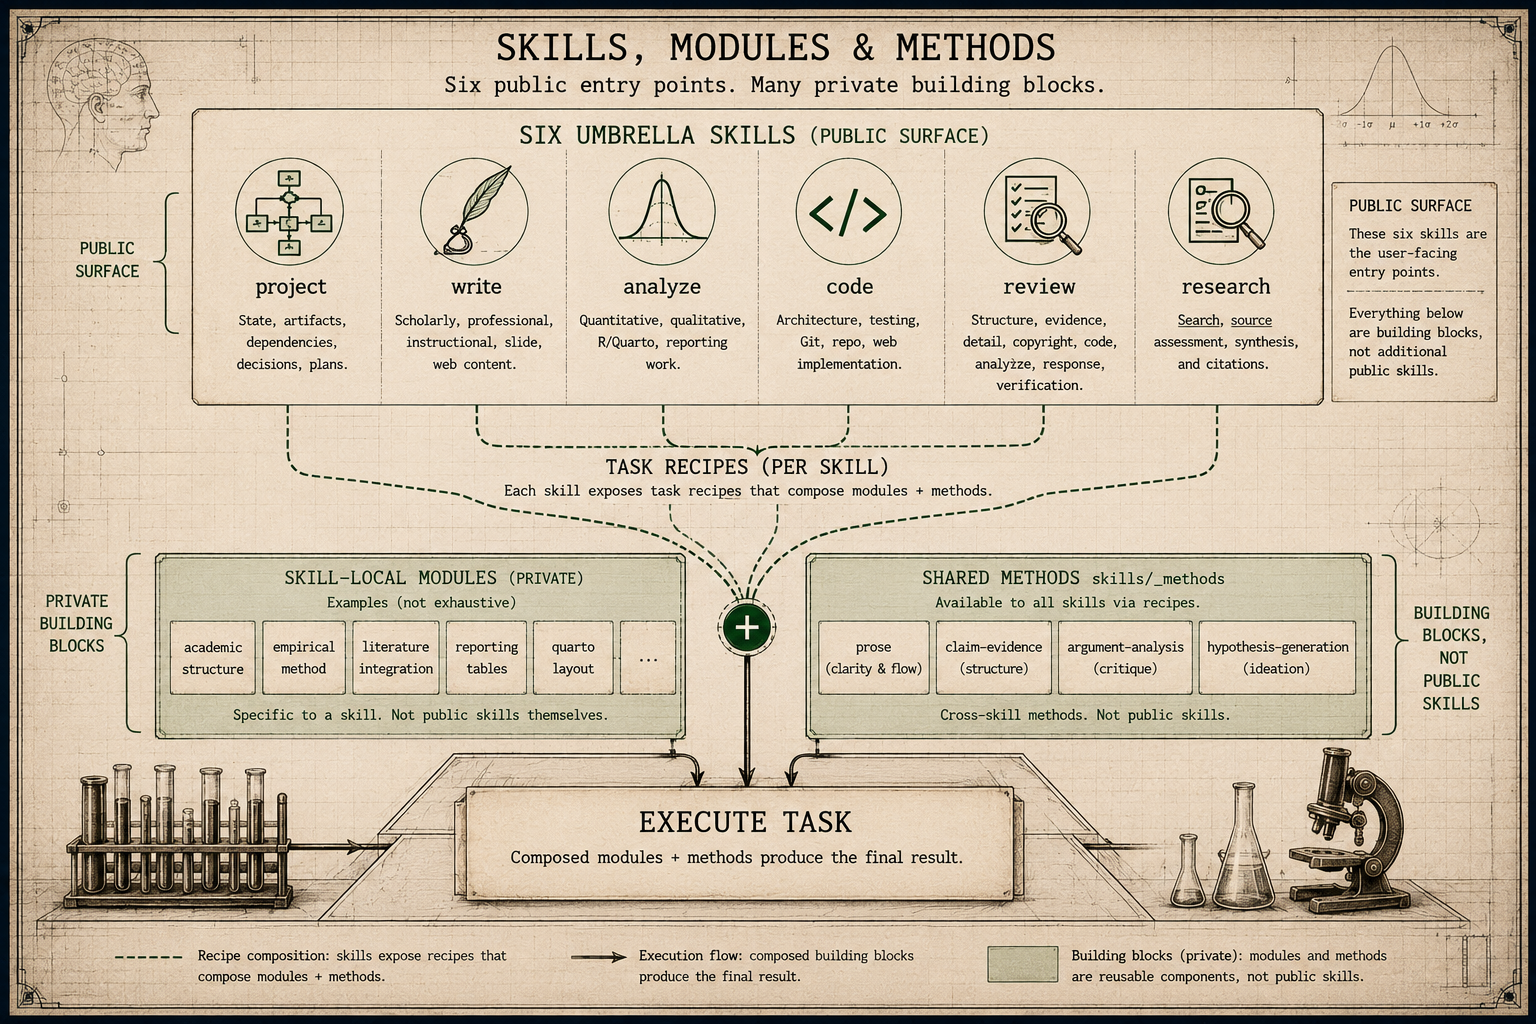
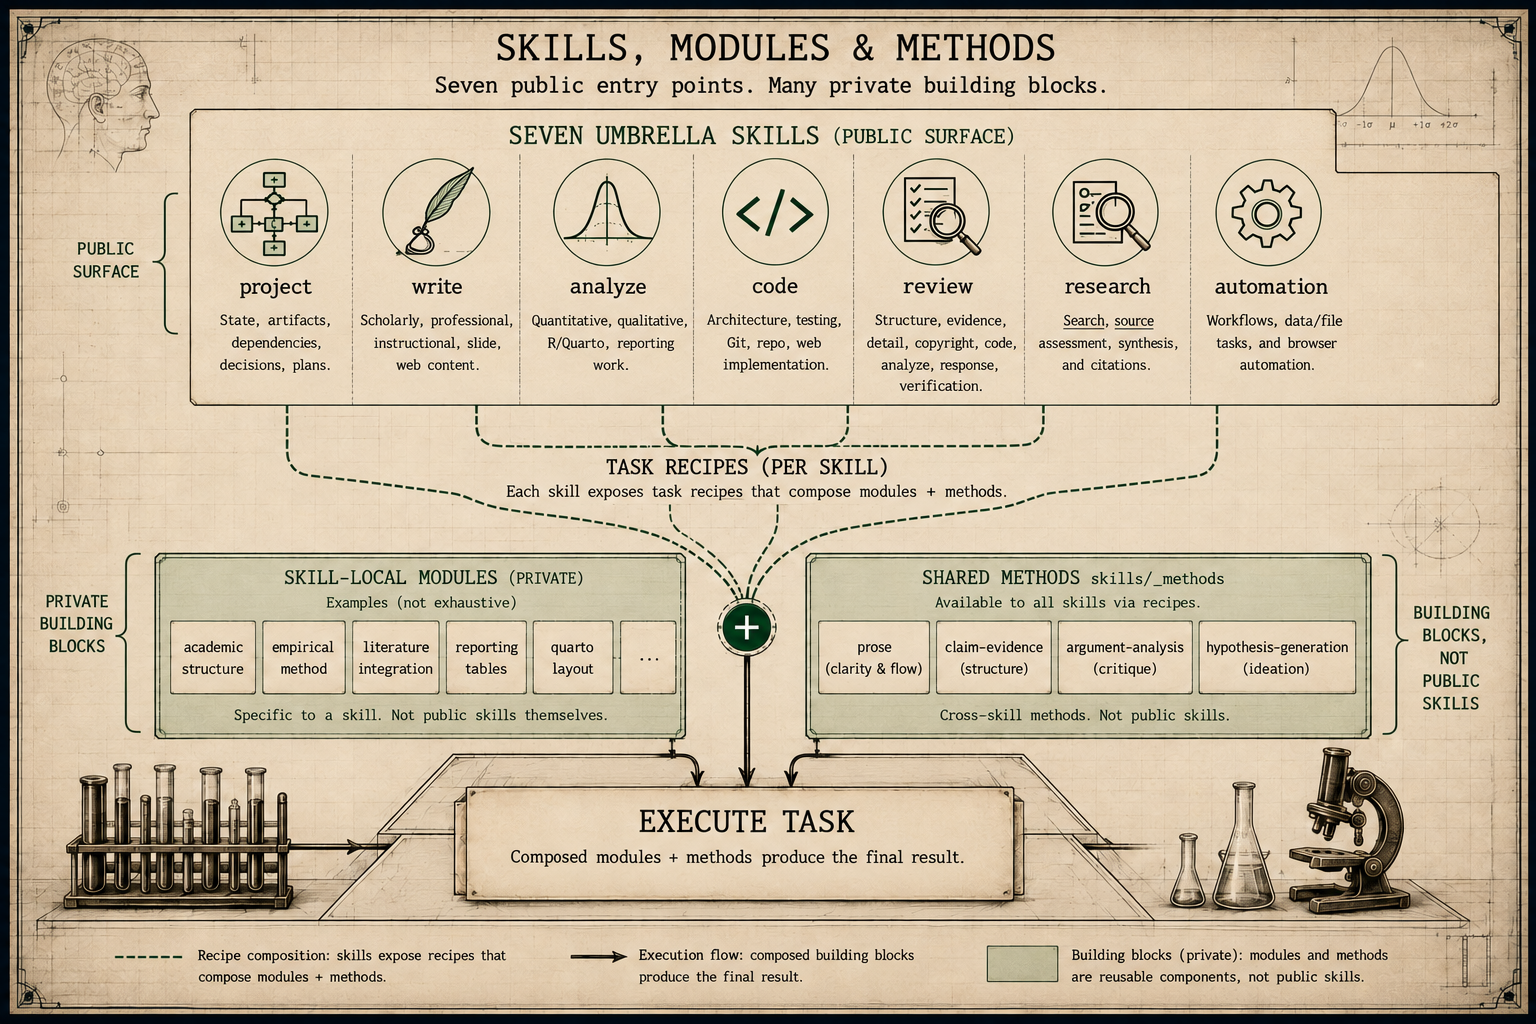
chore: prepare v7.0.0 release

diff --git a/TODO.md b/TODO.md
@@ -70,13 +70,14 @@ file records the implementation sequence and current verification state.
 - [x] Make capability claims ownership-aware and reject empty worker
   assignments at the request boundary.
 - [x] Apply material findings from final documentation review and add
-  paste-ready image-edit instructions; PNG updates remain pending.
+  paste-ready image-edit instructions; regenerate and visually review all
+  four updated diagram PNGs.
 - [x] Finalize `PROJECT.md` and `TODO.md` after accepted corrections.
 - [x] Run opt-in live prompt-quality fixtures with OpenAI Codex; final run
   passed all 37 fixtures. This remains model/run-specific, not a deterministic
   contract.
-- [x] Confirm main CI and Pages for dogfood commit `1bf33de` (pipeline
-  `2882249914`); both jobs passed.
+- [x] Confirm main CI and Pages for initial dogfood commit `1bf33de`
+  (pipeline `2882249914`); both jobs passed.
 
 ## v7 release hardening
 
@@ -88,8 +89,11 @@ file records the implementation sequence and current verification state.
   v7 migration guide.
 - [x] Clarify project-vs-personal `agents` promotion: ask only when scope is
   not explicit.
-- [ ] Generate and visually review updated workflow, architecture, context,
-  and skills diagrams from the paste-ready prompt in `docs/img/readme.md`.
+- [x] Generate and visually review updated workflow, architecture, context,
+  and skills diagrams from the prompt in `docs/img/readme.md`; refresh the
+  text descriptions to match the current diagrams.
+- [x] Embed all diagrams in the package README using release-pinned image
+  URLs and pin the Pi gallery logo to the v7.0.0 tag.
 - [x] Consolidate intended v7 material into `docs/CHANGELOG.md` and
   review/acknowledge tracked state through `project_status`.
 - [x] Run `make verify`, `make site`, and packed-install tests with and
@@ -97,11 +101,20 @@ file records the implementation sequence and current verification state.
   opt-in and is skipped by default.
 - [x] Run the real-Pi live workflow with OpenAI Codex; it passed. Keep live
   model evaluations opt-in and out of default/cloud CI.
-- [x] Inspect the `npm pack --dry-run` file list and size: 184 files,
-  16.7 MB compressed. The existing PNGs dominate the package and remain
-  pending regeneration and review.
-- [ ] Reinspect final pack contents and exact candidate after updated PNGs
-  are supplied and visually reviewed.
+- [x] Rerun `make verify` and `make site` on the image-updated release tree.
+- [x] Inspect `npm pack --dry-run --json`: 184 files, 14,620,255 bytes
+  compressed and 15,190,079 bytes unpacked. It includes all six PNGs linked
+  from the package README and the Pi gallery logo; packed-install tests check
+  their presence and release-pinned URLs.
 
-Constraints: no push, tag, publication, deployment, or release without
-separate owner instruction.
+## Release completion
+
+- [ ] Create a signed release commit and push it to `main`; confirm verify and
+  Pages pass on that exact commit.
+- [ ] Create and push signed annotated tag `v7.0.0`; monitor the tag pipeline, which
+  publishes with npm provenance, and verify the exact registry version and
+  `latest` dist-tag.
+
+Authorization: the owner instructed “do whatever is needed for v7 to ship,”
+which authorizes this v7.0.0 release flow. Use the repository's CI publisher;
+do not publish from the local machine.

diff --git a/README.md b/README.md
@@ -1,7 +1,8 @@
 # Pi Sych
 
 ![Pi Sych logo: inspectable files, bounded tasks, durable state, and
-human decisions](docs/img/logo.png)
+human
+decisions](https://gitlab.com/Joao-O-Santos/pi-sych/-/raw/v7.0.0/docs/img/logo.png)
 
 [![pipeline
 status](https://gitlab.com/Joao-O-Santos/pi-sych/badges/main/pipeline.svg)](https://gitlab.com/Joao-O-Santos/pi-sych/-/commits/main)
@@ -37,7 +38,8 @@ inventing extra approval checkpoints.
 
 ![Pi Sych overview: a request can use task-specific skills and project
 files, optionally involve a focused worker, and return for human review
-and decision](docs/img/workflow.png)
+and
+decision](https://gitlab.com/Joao-O-Santos/pi-sych/-/raw/v7.0.0/docs/img/workflow.png)
 
 This is an orientation, not a required sequence or a complete runtime
 contract. Direct work need not use a worker, skills guide rather than
@@ -105,7 +107,7 @@ contexts.
 
 [![Detailed review and edit workflow: independent review, human
 decision, clean-context editing, fresh verification, and
-acknowledgement](docs/img/review_workflow.png)](docs/review-workflow.md)
+acknowledgement](https://gitlab.com/Joao-O-Santos/pi-sych/-/raw/v7.0.0/docs/img/review_workflow.png)](docs/review-workflow.md)
 
 The separation between review and editing is deliberate. Rejected
 alternatives and the arguments used to evaluate them do not normally
@@ -319,6 +321,20 @@ When working in a Pi Sych project:
 See [architecture](docs/ARCHITECTURE.md) for the complete runtime
 contract and [configuration](docs/configuration.md) for setup and skill
 customization.
+
+## Architecture diagrams
+
+![Pi Sych architecture: supervisor tools, workers, results, and project
+files](https://gitlab.com/Joao-O-Santos/pi-sych/-/raw/v7.0.0/docs/img/architecture.png)
+
+![Supervisor compaction inputs, continuation, and separate worker
+context](https://gitlab.com/Joao-O-Santos/pi-sych/-/raw/v7.0.0/docs/img/supervisors_context.png)
+
+![Seven public skills and private module and method building
+blocks](https://gitlab.com/Joao-O-Santos/pi-sych/-/raw/v7.0.0/docs/img/skills_architecture.png)
+
+These diagrams are orientation aids, not complete runtime contracts. See
+[architecture](docs/ARCHITECTURE.md) for behavior details.
 
 ## Detailed documentation
 

diff --git a/docs/img/readme.md b/docs/img/readme.md
@@ -102,9 +102,9 @@ Preserve the old image's composition and palette; this is a diagram-label
 update, not a redesign.
 -->
 
-- `architecture.png` is stale: its `SUPERVISOR TOOLS` panel shows only
-  `project_status` and `dispatch_worker`; add the current
-  `literature_search` tool before treating it as current.
+- `architecture.png` shows all three supervisor tools, including local
+  read-only `literature_search`, and distinguishes worker-reported files
+  from observed project changes, including changes left after failure.
 
 <!--
 IMAGE UPDATE PATCH — supervisors_context.png
@@ -133,10 +133,10 @@ Make the smallest legible diagram edit needed to correct these labels; retain
 the original visual language rather than inventing new architecture.
 -->
 
-- `supervisors_context.png` is stale: it predates the current
-  settled-turn observable compaction and does not distinguish worker
-  writing-style context from supervisor compaction. Use the patch
-  comment above when regenerating it.
+- `supervisors_context.png` separates bounded compaction inputs and
+  supervisor continuation from assignment-specific worker context. It
+  also shows package writing defaults as the baseline and project
+  `STYLE.md` as a local override for selected writing workers only.
 
 <!--
 IMAGE UPDATE PATCH — skills_architecture.png
@@ -157,9 +157,9 @@ Keep the old composition and palette. This is a catalogue correction, not a
 new illustration.
 -->
 
-- `skills_architecture.png` is stale: it predates the automation
-  umbrella and still shows six public skills. Regenerate it with the
-  patch comment above before treating the image as current.
+- `skills_architecture.png` shows seven public umbrella skills,
+  including `automation`, and keeps skill-local modules and shared
+  methods in the private building-block layer.
 - `review_workflow.png` shows the detailed review and revision pattern,
   including a separate debate or feedback path and the human decision to
   revise, verify, or acknowledge. Plannotator is one optional review

diff --git a/PROJECT.md b/PROJECT.md
@@ -157,21 +157,22 @@ for the current approximately 3,000-line runtime.
 
 {verified} Repository-native formatting, documentation, type, budget,
 and test checks are part of the maintained acceptance boundary. The
-working package version is 7.0.0; no v7 Git tag exists and npm reports
-that version unpublished. No tag, publication, or release action has
-been performed.
+working package version is 7.0.0. Check current publication status from
+the release commit, annotated tag, and npm registry metadata rather than
+this project brief.
 
 ## Previous action
 
-{verified} Pushed untagged v7 dogfood changes to `main`; the current
-verify and Pages jobs passed. The OpenAI-backed real-Pi workflow and all
-37 prompt-quality fixtures passed. Added a paste-ready prompt for
-updating stale diagrams; PNG regeneration and visual review remain
-outstanding.
+{verified} Regenerated and visually reviewed the workflow, architecture,
+supervisor-context, and skills-architecture diagrams. Updated their
+textual descriptions; the local image-updated candidate is now
+undergoing release verification.
 
 ## Immediate next step
 
-{accepted} Regenerate and visually review the diagram PNGs. Then rerun
-repository gates, inspect final package contents, and recheck the exact
-image-updated candidate. Do not tag, publish, or release v7.0.0 without
-separate owner instruction.
+{user-explicit} The owner authorized doing what is needed to ship
+v7.0.0. Rerun repository gates and inspect final package contents, then
+create and push the signed release commit. Confirm main verify and Pages
+pass on that commit; push the signed annotated v7.0.0 tag to trigger CI
+publication with npm provenance. Verify the exact published version and
+`latest` dist-tag; do not publish from the local machine.

diff --git a/docs/CHANGELOG.md b/docs/CHANGELOG.md
@@ -44,8 +44,9 @@ No unreleased changes.
   explicit project/personal scope before `agents` promotion without
   redundant questions, and make Plannotator degrade gracefully when
   optional dependencies or a compatible adapter are unavailable.
-- Add paste-ready image-edit instructions for bringing public diagrams
-  into line with current skills, tools, compaction, and worker context.
+- Refresh the workflow, architecture, context, and skills diagrams; show
+  them in the package README and add paste-ready instructions for future
+  updates.
 - Raise the nonblank runtime source budget to 3,200 lines, leaving
   headroom above the current approximately 3,000-line runtime.
 
